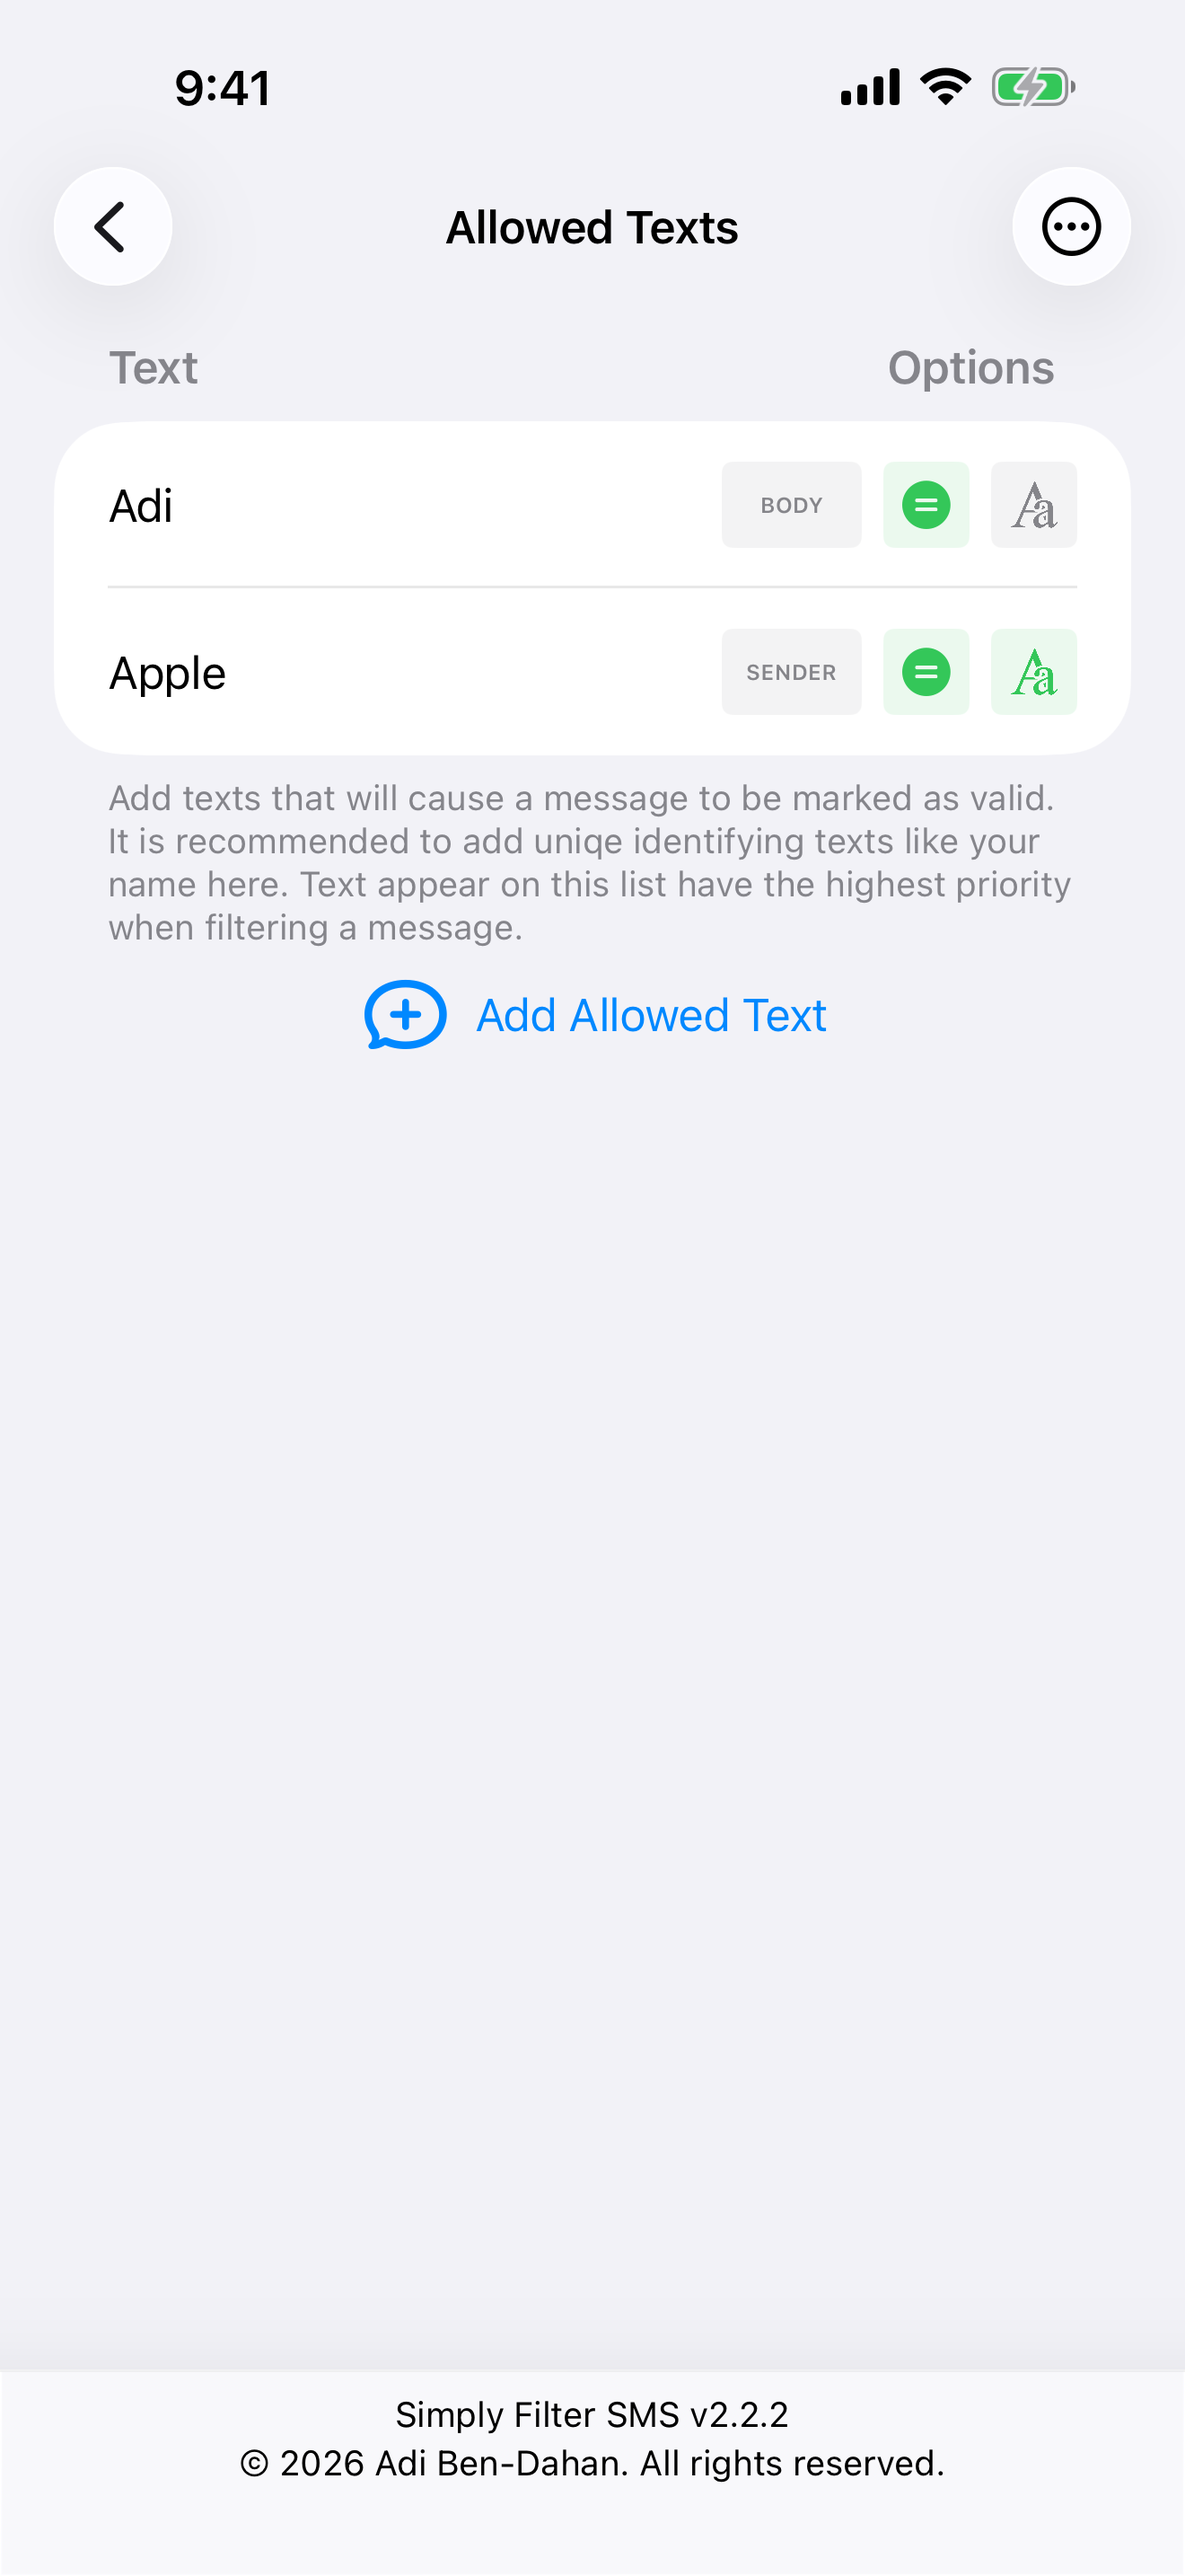
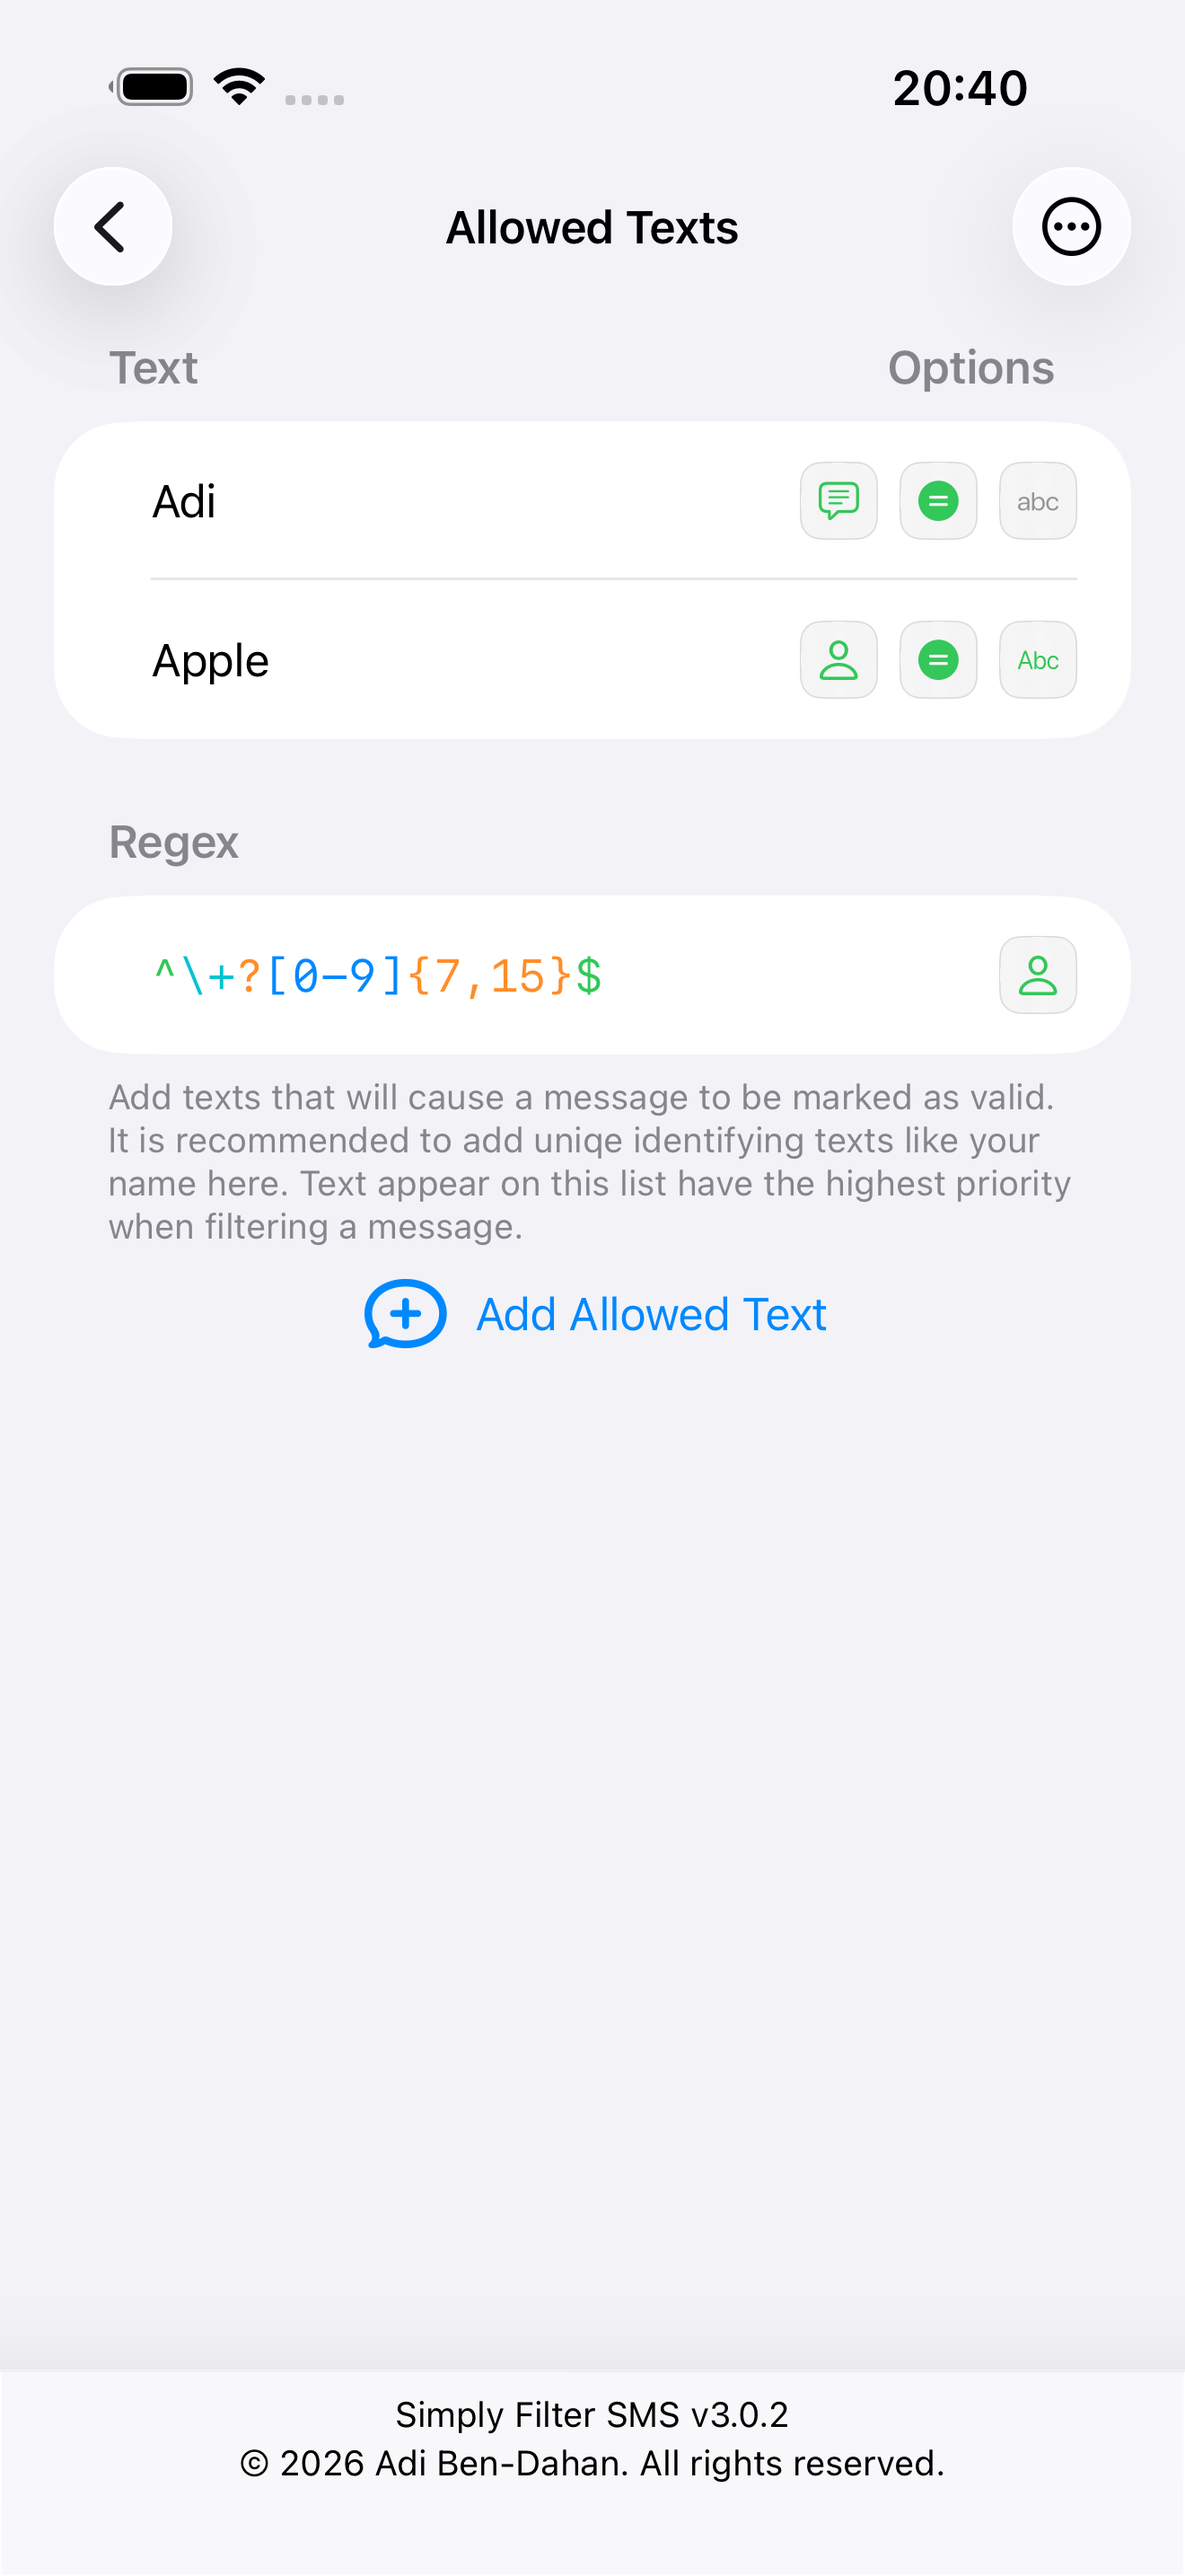
Update README.md

diff --git a/UI Tests/SnapshotsTestCase.swift b/UI Tests/SnapshotsTestCase.swift
@@ -42,6 +42,7 @@ class SnapshotsTestCase: ApplicationTestCase {
         self.sleep(seconds: 1)
 
         app.tap(.countryAllowlistButton)
+        self.sleep(seconds: 2)
         snapshot("08.countryList")
         app.tap(.closeButton)
         self.sleep(seconds: isPad ? 2.0 : 0.5)

diff --git a/README.md b/README.md
@@ -2,7 +2,7 @@
   <a href="https://github.com/adibendahan/SimplyFilterSMS-iOS"><img src="_screenshots/logo.png" width="256" height="256"></a>
   <h1>Simply Filter SMS</h1>
   <p>
-    <b>Simply filter text messages from unknown senders using keywords</b>
+    <b>Filter text messages from unknown senders using keywords, regex, and AI</b>
   </p>
   <br>
   <br>
@@ -17,7 +17,7 @@
 [![MIT License][license-shield]][license-url]
 
 
-Simply Filter SMS is a private, free and fast way to filter out spam text messages on iPhones.
+Simply Filter SMS is a private, free and fast way to filter out spam text messages on iPhone and iPad.
 
 ## Download
 
@@ -25,22 +25,28 @@ Simply Filter SMS is a private, free and fast way to filter out spam text messag
 
 [![](https://linkmaker.itunes.apple.com/assets/shared/badges/en-us/appstore-lrg.svg)](https://apps.apple.com/us/app/simply-filter-sms/id1603222959)
 
-Requires iOS 15 or later.
+Requires iOS 16.6 or later.
 
 
 ## Features
 
 ### User Defined Filters
-You can add your filters to allow/deny any specific text.
+Add keyword or regex filters to allow or deny any specific text with full control over matching rules.
+
+### Regex Filters
+Create powerful pattern-matching filters using regular expressions for precise, flexible filtering.
 
 ### Automatic Filtering
-Enabling it will filter messages using a pre defined list of terms (English/Hebrew only).
+AI-powered automatic filtering with support for 10 languages including English, Hebrew, Spanish, French, German, Arabic, and more.
 
 ### Smart Filters
-Easily filter messages from short/email/all unknown senders, containing links/emojis or allow sender with phone numbers only. 
+Easily filter messages from short/email/all unknown senders, containing links or emojis, or allow senders with phone numbers only.
+
+### Trusted Countries
+Automatically allow messages from specific countries by phone number prefix.
 
 ### Block Languages
-Easily block all text messages in any specific language(s). 
+Easily block all text messages in any specific language(s).
 
 ## Why choose Simply Filter SMS?
 
@@ -48,7 +54,7 @@ Easily block all text messages in any specific language(s).
 Simply Filter SMS does not collect any data whatsoever. Nothing leaves your device.
 
 ### Free
-Everything is free of charge. Forever. No in-app purchases, no nonsense. 
+Simply Filter SMS is free forever. An optional tip jar is available to support development.
 
 ### Fast
 The app is primarily a host of rules that integrates with iOS in a native, lightweight way, making the filtering efficient and fast.
@@ -70,6 +76,7 @@ Simply Filter SMS is written in Apple's latest programming paradigm SwiftUI.
 <img width="250" src="_screenshots/05.png">
 <img width="250" src="_screenshots/06.png">
 <img width="250" src="_screenshots/07.png">
+<img width="250" src="_screenshots/08.png">
 </p>
 
 
@@ -77,8 +84,8 @@ Simply Filter SMS is written in Apple's latest programming paradigm SwiftUI.
 
 #### ***How does message filtering work?***
 
-When you recive a text message from a number that is not in your contact list, Simply Filter SMS will filter it based on the following rules:
-* If a text message contains text matching to a filter from the 'Allowed Texts' it will be delivered regularly.
+When you receive a text message from a number that is not in your contact list, Simply Filter SMS will filter it based on the following rules:
+* If a text message contains text matching a filter from the 'Allowed Texts' it will be delivered regularly.
 * If not, the message will be scanned for matching filters from the 'Blocked Texts' and in case any were found it will be delivered to the Junk folder.
 *  If the text doesn't contain any text that matches the filters, it will be delivered regularly.
 
@@ -96,16 +103,16 @@ When a text message is tagged as junk it will still be available for reading on 
 
 #### ***What's the difference between Junk/Transactions/Promotions folders?***
 
-Not much, you can filter any word to any folder. Those folders are not customable in any way. Only messages filtered to the Junk folder will be delivered silently.
+Not much, you can filter any word to any folder. Those folders are not customizable in any way. Only messages filtered to the Junk folder will be delivered silently.
 
 #### ***How does Automatic Filtering work?***
 
-Automatic Filtering is using a pre defined list of terms to determine if a message should be sent to the Junk folder or not. The lists are updated periodically with new terms. Your regular filters are still considered when Automatic Filtering is on.
+Automatic Filtering uses an AI-powered list of terms to determine if a message should be sent to the Junk folder or not. The lists are updated periodically and support 10 languages. Your regular filters are still considered when Automatic Filtering is on.
 
 
 ## Building from source
 
-Just open the project on Xcode and build (Xcode >= 13.2.1). 
+Just open the project in Xcode and build (Xcode 15 or later).
 
 
 ## Contributing
@@ -115,7 +122,7 @@ Simply Filter SMS is open for pull-request business.
 
 ## License
 
-[MIT](https://github.com/adibendahan/SimplyFilterSMS-iOS/blob/main/LICENSE) 2025 © Adi Ben-Dahan. All rights reserved.
+[MIT](https://github.com/adibendahan/SimplyFilterSMS-iOS/blob/main/LICENSE) 2026 © Adi Ben-Dahan. All rights reserved.
 
 
 [contributors-shield]: https://img.shields.io/github/contributors/adibendahan/SimplyFilterSMS-iOS?style=for-the-badge
